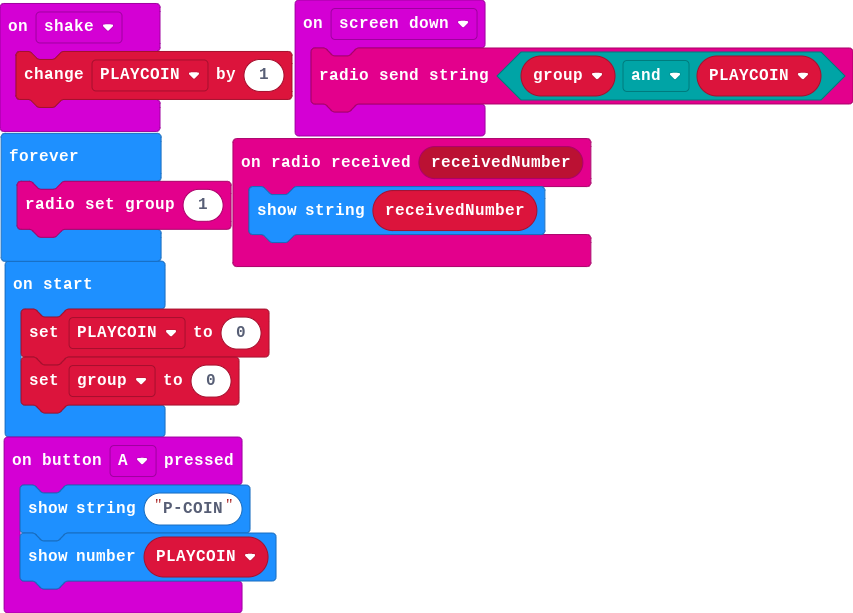
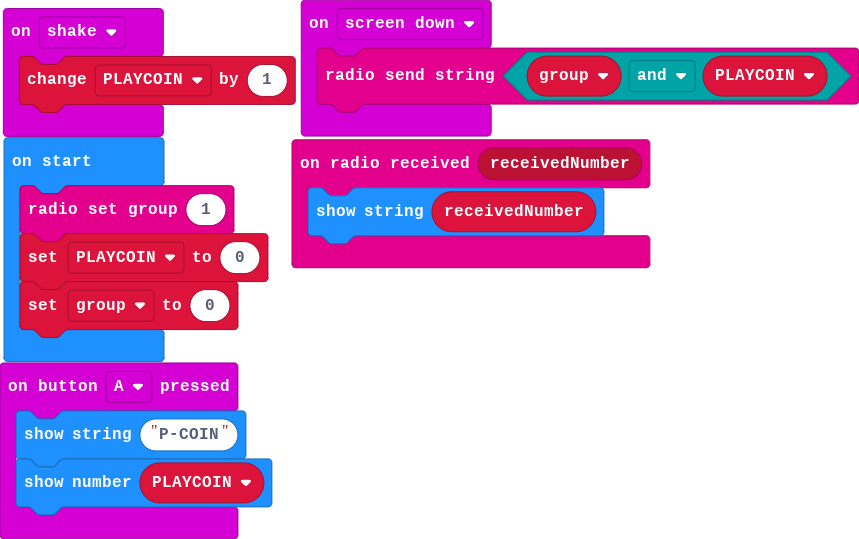
Update main.blocks, main.ts

diff --git a/main.ts b/main.ts
@@ -16,8 +16,6 @@ input.onGesture(Gesture.Shake, function () {
 })
 let group = 0
 let PLAYCOIN = 0
+radio.setGroup(1)
 PLAYCOIN = 0
 group = 0
-basic.forever(function () {
-    radio.setGroup(1)
-})
